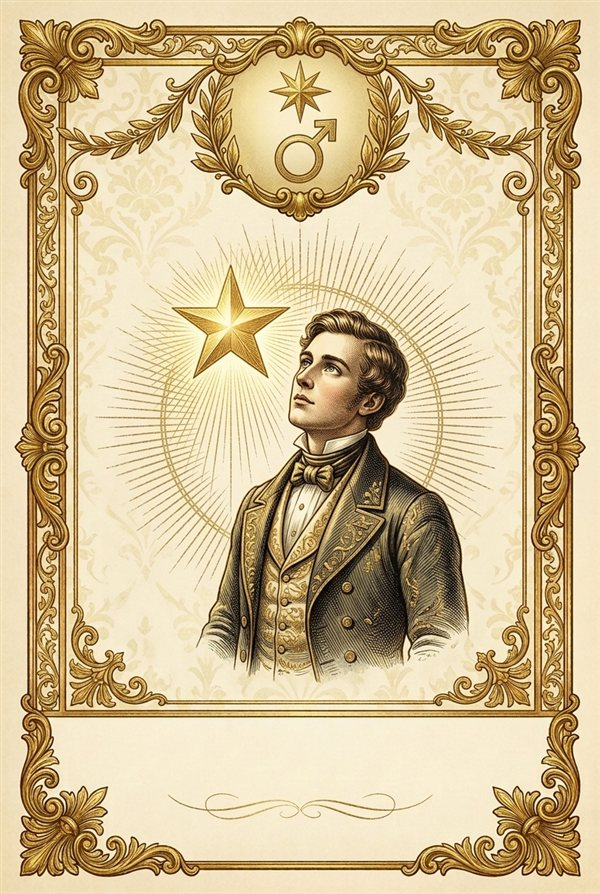
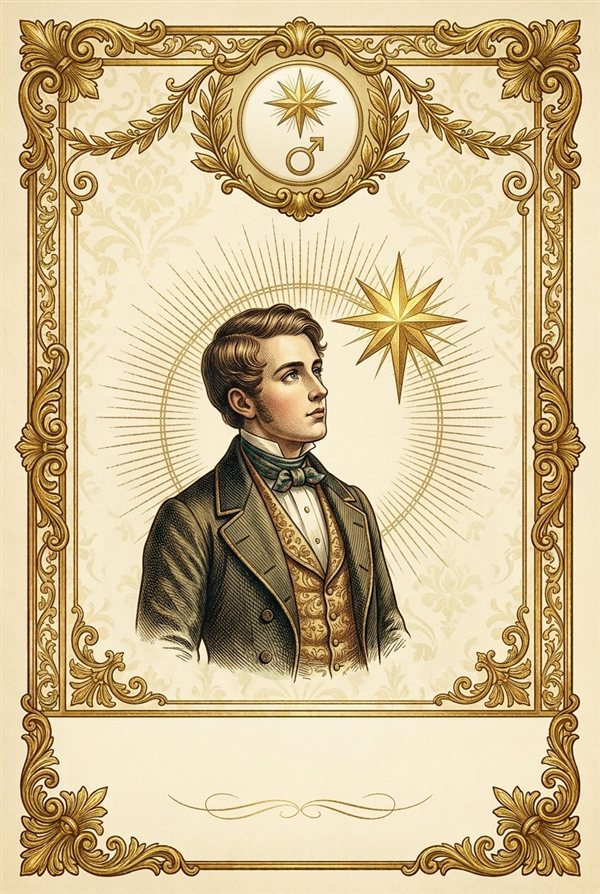
牌面方向統一+提示詞二修
- 大雷諾曼01男問卜者重生成:面向右,與女問卜者相向(生成腳本方向規格已寫死)
- 貝林02男性之星重生成:望向右上之星,與女星同制
- AI提示詞補西班牙牌人設(原印undefined)
- 非正逆牌組的pk標籤改各牌組專屬(卦序/牌號/花色點數),不再一律「撲克對應」

Changed region(s): [[0.21, 0.2718, 0.81, 0.7852], [0.39, 0.0604, 0.63, 0.2114], [0.72, 0.453, 0.75, 0.4832]]

diff --git a/index.html b/index.html
@@ -3784,6 +3784,7 @@ function buildAiPrompt() {
     yi:"你是一位精通周易的占卜解讀者，熟悉六十四卦的卦辭、象傳與義理，能將卦義落實到現代處境。請以繁體中文為我解讀以下卦陣。",
     zw:"你是一位經驗豐富的紫微斗數老師，熟悉十四主星、六吉六煞、四化與諸雜曜的星情，以及廟旺落陷的差異。請以繁體中文為我解讀以下星陣（正位視為入廟得力，逆位視為落陷失輝）。",
     dt:"你是一位經驗豐富的塔羅解讀師，眼前是一副以華夏意象重詮的東方塔羅（四象為花色：青龍財帛、朱雀行動、白虎思辨、玄武情感），結構對應標準塔羅。請以繁體中文為我解讀以下牌陣。",
+    esp:"你是一位承襲西班牙與拉丁美洲民間紙牌占卜（cartomancia con baraja española）的解讀師，熟悉四十張牌的花色語彙、人頭牌的人物指認與同數成對的傳統斷法。請以繁體中文為我解讀以下牌陣。",
   }[deckDef.id]);
   if (deckDef.reversible) {
     const norevs = CARDS.filter((c) => c.norev).map((c) => `「${c.zh}」`).join("、");
@@ -3832,7 +3833,7 @@ function buildAiPrompt() {
   drawn.forEach((c, i) => {
     L.push(deckDef.reversible
       ? `${i + 1}. ${posName(i)}：${c.zh} ${c.latin}（${c.pk}，${c.norev ? "不分正逆位" : drawnRev[i] ? "逆位" : "正位"}）— 關鍵詞：${c.keys}`
-      : `${i + 1}. ${posName(i)}：${c.zh} ${c.latin}（№${c.n}，撲克對應 ${c.pk}）— 關鍵詞：${c.keys}`);
+      : `${i + 1}. ${posName(i)}：${c.zh} ${c.latin}（№${c.n}，${{ len: "撲克對應 ", gra: "撲克對應 ", yi: "卦序 ", kip: "牌號 ", esp: "花色點數 " }[deckDef.id] || ""}${c.pk}）— 關鍵詞：${c.keys}`);
   });
   L.push("");
   L.push("【請提供】");
